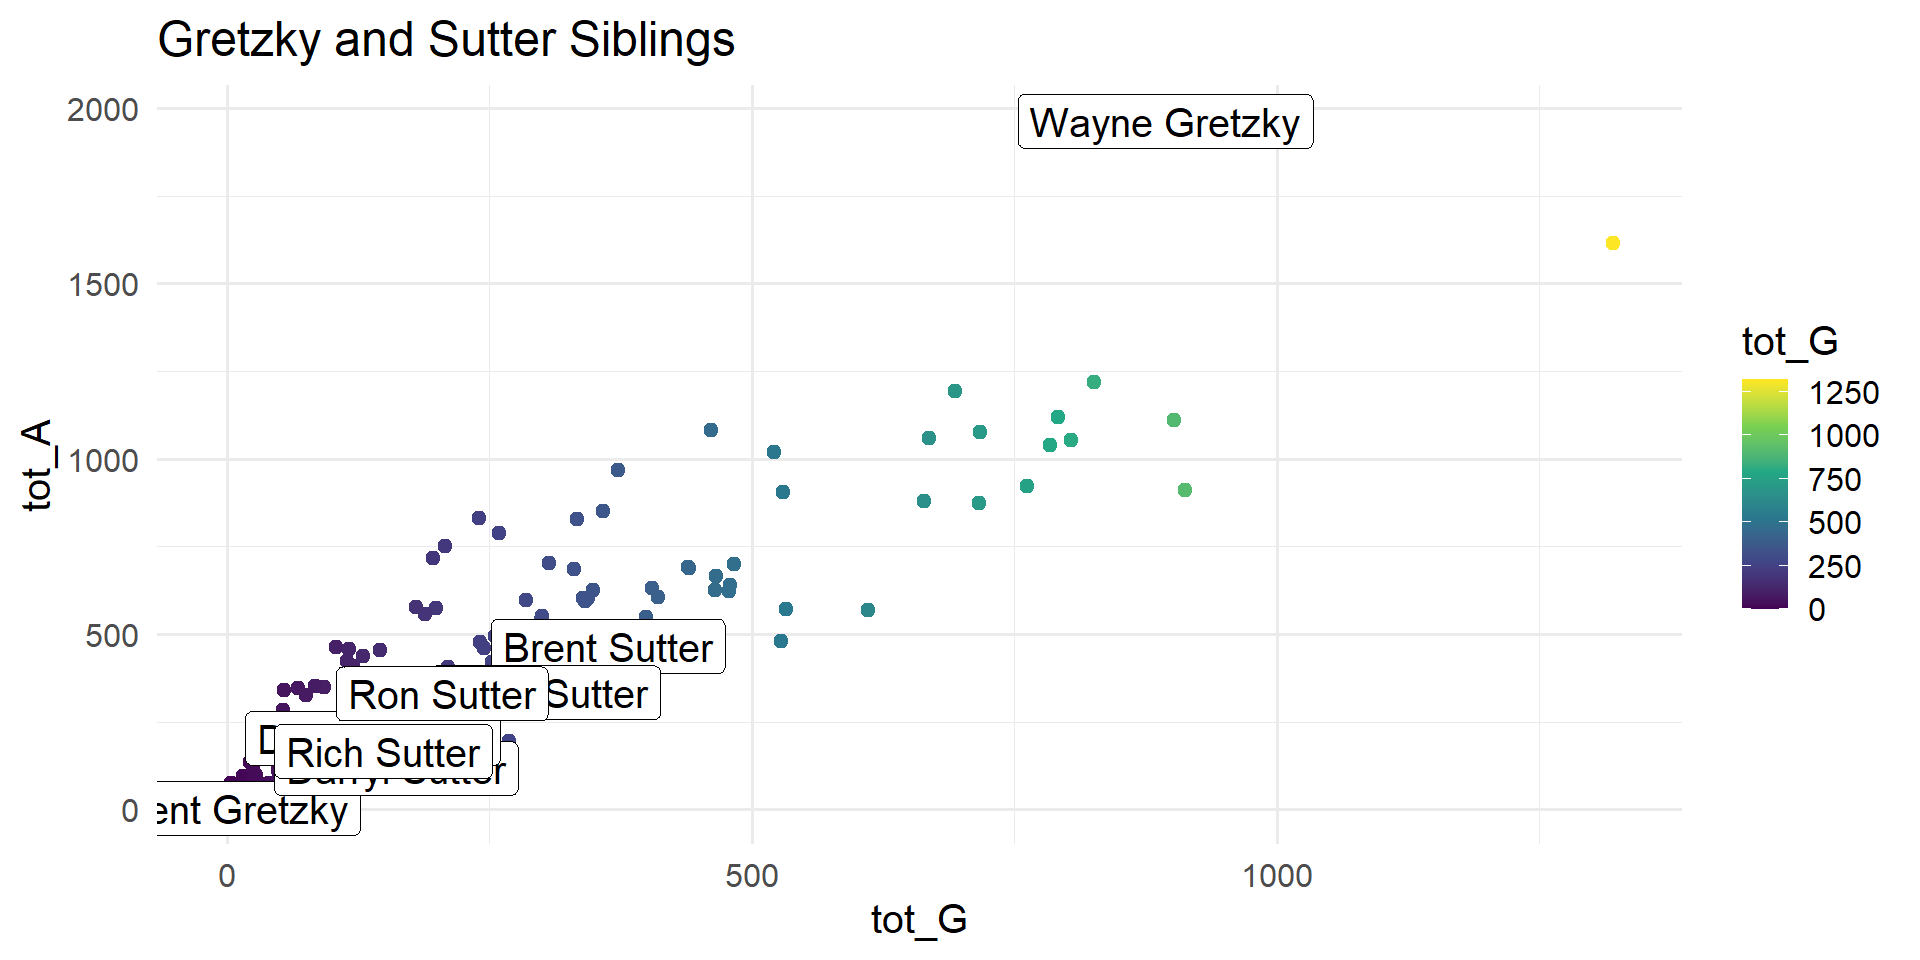
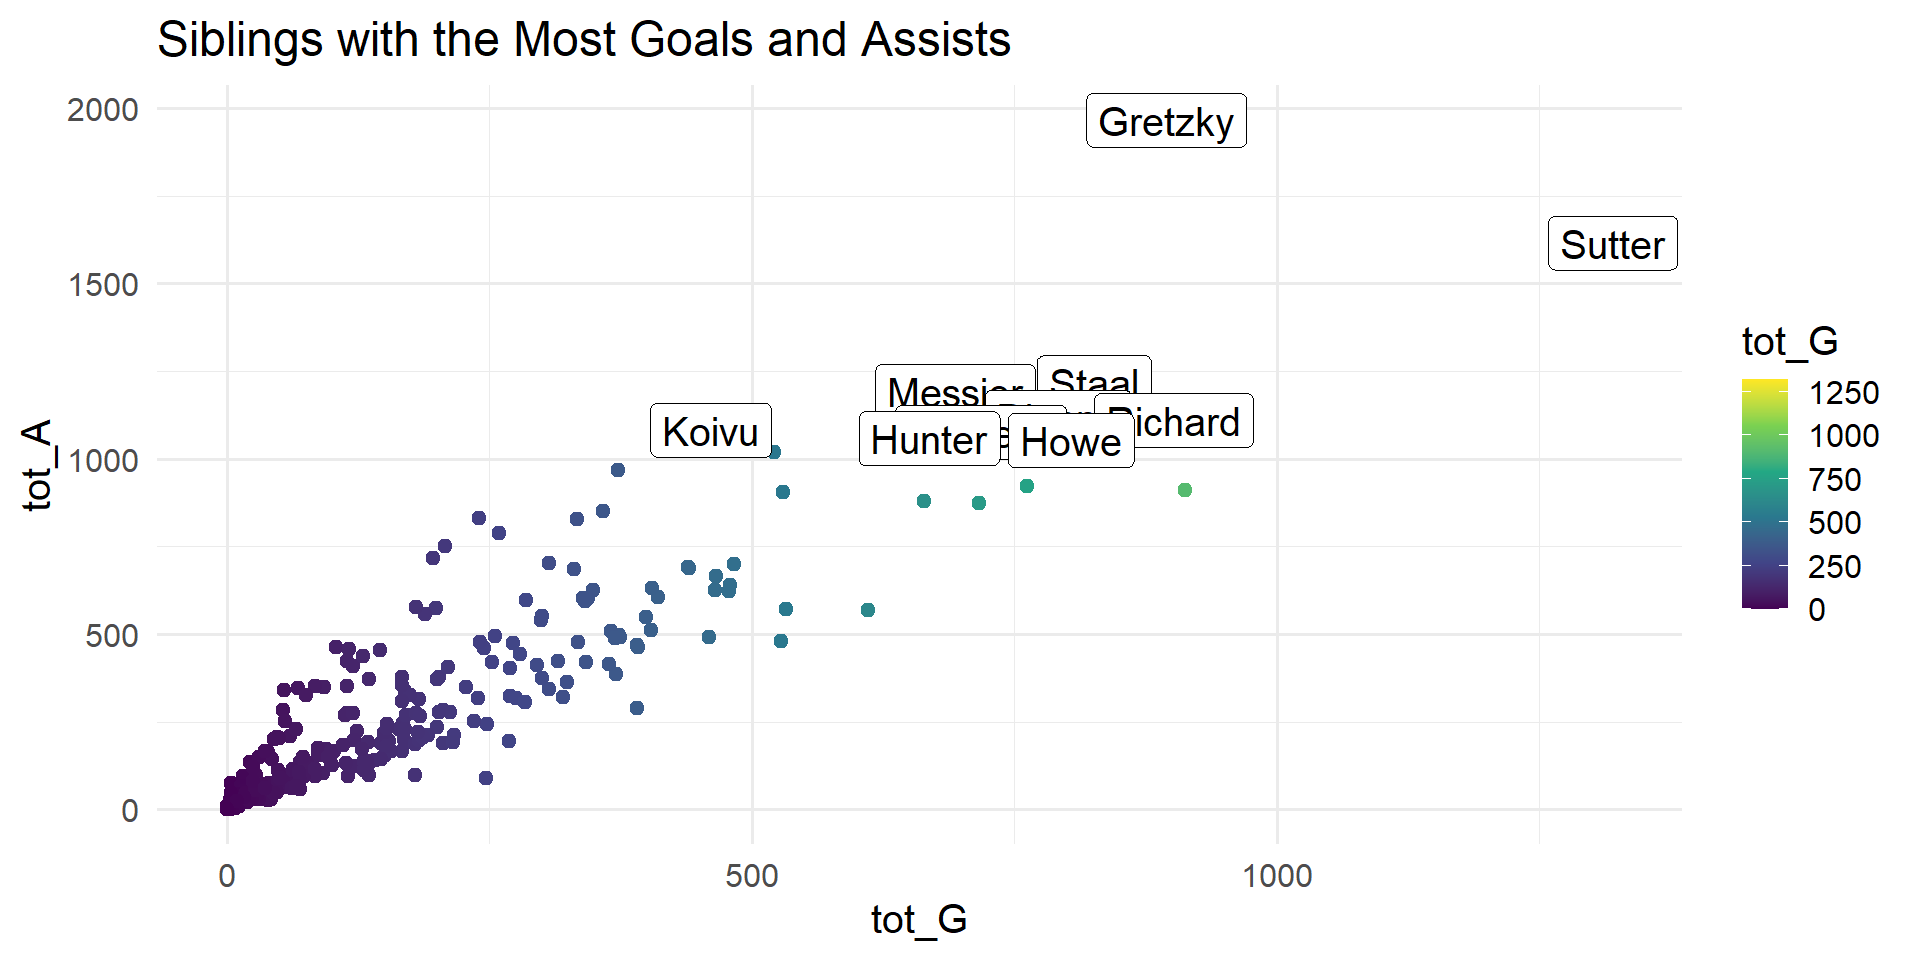
readme setup

diff --git a/final_presentation.html b/final_presentation.html
@@ -140,26 +140,51 @@
 <p>Who are the best siblings, look at sibling pairs to see who has the most goals, assists, points, ect.</p>
 <p>Are NHL players with siblings better or worse than players without siblings?</p>
 </section>
+<section id="data" class="slide level2">
+<h2>DATA</h2>
+<div class="cell">
+<div class="cell-output cell-output-stdout">
+<pre><code>           player start_year end_year position   GP   G   A PTS plus_minus  PIM
+1   Billy Boucher       1922     1928       RW  213  93  35 128         NA  419
+2   Frank Boucher       1922     1944        C  557 160 264 424         NA  110
+3 Georges Boucher       1918     1932        D  450 118  87 205         NA  845
+4    Brent Sutter       1981     1998        C 1111 363 466 829        166 1054
+5    Brian Sutter       1977     1988       LW  779 303 333 636        -66 1786
+  even_str_G pp_G sh_G gw_G even_str_A pp_A sh_A shots_on_goal shooting_pct TOI
+1         NA   NA   NA   23         NA   NA   NA            NA           NA  NA
+2         40    8    1   25         85   19    0            NA           NA  NA
+3         NA   NA   NA   24         NA   NA   NA            NA           NA  NA
+4        236  109   18   47        336  120   10          2396         15.2 673
+5        193  107    3   29        242   87    4          1685         18.0  NA
+      ATOI  OPS  DPS   PS X Country  family id  sib
+1     &lt;NA&gt; 17.0  4.8 21.8 2  Canada Boucher  2 sib2
+2     &lt;NA&gt; 53.0 11.0 64.0 2  Canada Boucher  2 sib3
+3     &lt;NA&gt; 24.4 53.0 77.4 2  Canada Boucher  2 sib1
+4 12:56:00 46.2 18.5 64.7 1  Canada  Sutter  1 sib4
+5     &lt;NA&gt; 36.5  9.6 46.1 1  Canada  Sutter  1 sib1</code></pre>
+</div>
+</div>
+</section>
 <section id="who-are-the-best-siblings" class="slide level2">
 <h2>Who are the best siblings</h2>
 
-<img data-src="final_presentation_files/figure-revealjs/unnamed-chunk-6-1.png" width="960" class="r-stretch"></section>
+<img data-src="final_presentation_files/figure-revealjs/unnamed-chunk-7-1.png" width="960" class="r-stretch"></section>
 <section id="prominent-families" class="slide level2">
 <h2>Prominent Families</h2>
 
-<img data-src="final_presentation_files/figure-revealjs/unnamed-chunk-7-1.png" width="960" class="r-stretch"></section>
+<img data-src="final_presentation_files/figure-revealjs/unnamed-chunk-8-1.png" width="960" class="r-stretch"></section>
 <section id="siblings-vs-non-siblings-total" class="slide level2">
 <h2>Siblings vs Non-Siblings Total</h2>
 
-<img data-src="final_presentation_files/figure-revealjs/unnamed-chunk-9-1.png" width="960" class="r-stretch"></section>
+<img data-src="final_presentation_files/figure-revealjs/unnamed-chunk-10-1.png" width="960" class="r-stretch"></section>
 <section id="siblings-vs-non-siblings-per-player" class="slide level2">
 <h2>Siblings vs Non-Siblings per Player</h2>
 
-<img data-src="final_presentation_files/figure-revealjs/unnamed-chunk-11-1.png" width="960" class="r-stretch"></section>
+<img data-src="final_presentation_files/figure-revealjs/unnamed-chunk-12-1.png" width="960" class="r-stretch"></section>
 <section id="siblings-vs-non-siblings-per-game" class="slide level2">
 <h2>Siblings vs Non-Siblings per Game</h2>
 
-<img data-src="final_presentation_files/figure-revealjs/unnamed-chunk-13-1.png" width="960" class="r-stretch"></section>
+<img data-src="final_presentation_files/figure-revealjs/unnamed-chunk-14-1.png" width="960" class="r-stretch"></section>
 <section id="new-questions" class="slide level2">
 <h2>New Questions</h2>
 <p>Noticing people have the same names, what pairs are most successful?</p>
@@ -169,7 +194,7 @@
 <h2>Same name</h2>
 
 
-<img data-src="final_presentation_files/figure-revealjs/unnamed-chunk-16-1.png" width="960" class="r-stretch"></section>
+<img data-src="final_presentation_files/figure-revealjs/unnamed-chunk-17-1.png" width="960" class="r-stretch"></section>
     </div>
   <div class="quarto-auto-generated-content" style="display: none;">
 <div class="footer footer-default">
